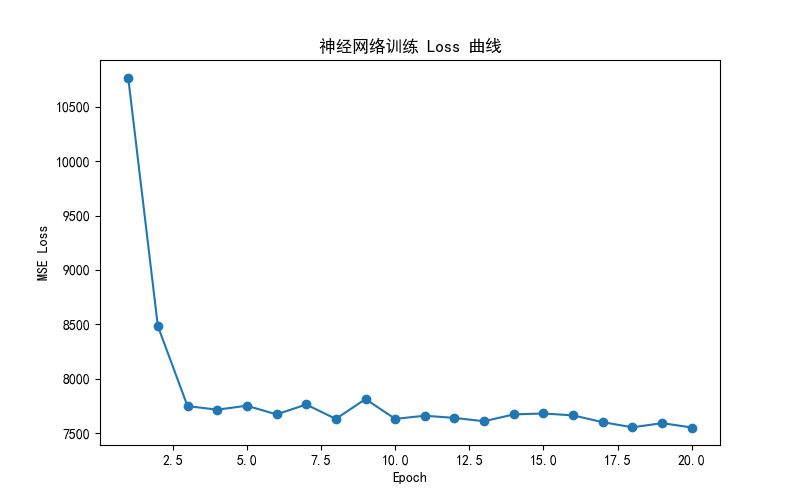
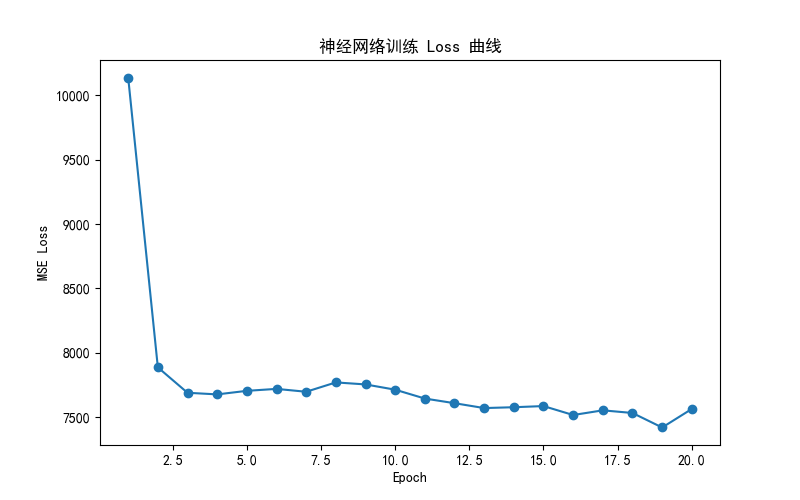
gui

diff --git a/gui.py b/gui.py
@@ -1,0 +1,107 @@
+import streamlit as st
+import pandas as pd
+import os
+from PIL import Image
+# 导入你 main.py 中的核心功能函数
+from main import m1_data_processing, m2_visualization, m3_train_models
+
+# 设置页面配置
+st.set_page_config(page_title="纽约出租车数据分析系统", layout="wide")
+
+st.title("🚕 城市出租车出行数据分析与智能问答系统")
+st.markdown("---")
+
+# 侧边栏导航
+menu = st.sidebar.selectbox("功能导航", ["数据概览与处理", "分析可视化展示", "模型训练预测", "智能问答交互"])
+
+# 全局变量：数据路径
+DATA_PATH = 'data/yellow_tripdata_2023-01.parquet'
+
+if menu == "数据概览与处理":
+    st.header("📊 模块 M1: 数据处理与质量报告")
+    if st.button("开始加载并清洗数据"):
+        with st.spinner("数据处理中，请稍候..."):
+            df = m1_data_processing(DATA_PATH)
+            if df is not None:
+                st.success("数据处理成功！")
+                st.subheader("清洗后数据预览 (前100行)")
+                st.dataframe(df.head(100))
+
+                # 展示特征衍生结果
+                st.info(f"当前数据集条数：{len(df)}")
+                st.write("已提取特征：小时、星期、是否高峰、平均时速、每英里费用等。")
+                # 缓存数据供其他模块使用
+                st.session_state['df'] = df
+
+elif menu == "分析可视化展示":
+    st.header("📈 模块 M2: 统计分析可视化")
+    if st.button("生成/更新分析图表"):
+        if 'df' in st.session_state:
+            with st.spinner("正在绘图..."):
+                m2_visualization(st.session_state['df'])
+                st.success("图表已更新！")
+        else:
+            st.error("请先在‘数据概览’页面加载数据。")
+
+    # 展示已生成的图片
+    if os.path.exists('outputs'):
+        cols = st.columns(2)
+        images = [f for f in os.listdir('outputs') if f.endswith('.png') and f.startswith(('1', '2', '3', '4'))]
+        for i, img_name in enumerate(sorted(images)):
+            with cols[i % 2]:
+                img = Image.open(f'outputs/{img_name}')
+                st.image(img, caption=img_name, use_container_width=True)
+    else:
+        st.warning("outputs 文件夹暂无图表，请点击上方按钮生成。")
+
+elif menu == "模型训练预测":
+    st.header("🤖 模块 M3: 需求预测模型 (NN vs RF)")
+    if st.button("开始模型对比训练"):
+        if 'df' in st.session_state:
+            with st.spinner("神经网络训练中...请观察控制台进度"):
+                rf_model, nn_model = m3_train_models(st.session_state['df'])
+                st.success("模型训练完成！")
+
+                # 展示 Loss 曲线
+                if os.path.exists('outputs/5_nn_loss_curve.png'):
+                    st.image('outputs/5_nn_loss_curve.png', caption="神经网络训练 Loss 曲线", width=600)
+        else:
+            st.error("请先加载数据。")
+
+elif menu == "智能问答交互":
+    st.header("💬 模块 M4: 智能问答接口")
+    st.write("请输入关于纽约出租车数据的自然语言问题，例如：'哪里的打车人最多？'")
+
+    user_input = st.text_input("你的问题：")
+
+    if user_input:
+        if 'df' in st.session_state:
+            df = st.session_state['df']
+            import re
+
+            # 这里复用 main.py 中的问答逻辑，但改为 st.write 输出
+            if re.search(r'(几点|时间|时段).*(打车|订单|多)', user_input):
+                peak_hour = df['pickup_hour'].value_counts().idxmax()
+                st.write(f"🤖 **回答：** 根据数据，每天的 **{peak_hour}:00** 是打车需求量最大的时间段。")
+                if os.path.exists('outputs/1_hourly_demand.png'):
+                    st.image('outputs/1_hourly_demand.png', width=500)
+
+            elif re.search(r'(区域|哪里|地点).*(最多|排)', user_input):
+                top_zone = df['PULocationID'].value_counts().idxmax()
+                st.write(f"🤖 **回答：** 上客量最高的区域 ID 是 **{top_zone}**。")
+                if os.path.exists('outputs/2_top_10_pickup_zones.png'):
+                    st.image('outputs/2_top_10_pickup_zones.png', width=500)
+
+            elif re.search(r'(费用|车费|钱)', user_input):
+                corr = df['trip_distance'].corr(df['fare_amount'])
+                st.write(f"🤖 **回答：** 车费与行程距离高度正相关，相关系数达 **{corr:.2f}**。")
+
+            elif re.search(r'(速度|车速|高峰期)', user_input):
+                peak_speed = df[df['is_peak'] == 1]['trip_speed_mph'].mean()
+                st.write(f"🤖 **回答：** 高峰期平均车速约为 **{peak_speed:.1f} mph**。")
+                if os.path.exists('outputs/4_speed_analysis.png'):
+                    st.image('outputs/4_speed_analysis.png', width=500)
+            else:
+                st.write("🤖 抱歉，我还在学习中，请尝试换一种问法（包含关键词如：时间、区域、费用、速度）。")
+        else:
+            st.error("请先在侧边栏导航到‘数据概览’并加载数据。")

diff --git a/main.py b/main.py
@@ -281,7 +281,7 @@ def m4_qa_system(df):
             print("抱歉，目前的系统还无法理解这个问题，请尝试换一种包含核心关键词的问法。")
 
 # ==========================================
-# 主程序入口
+# 主程序
 # ==========================================
 if __name__ == "__main__":
     filepath = 'data/yellow_tripdata_2023-01.parquet'